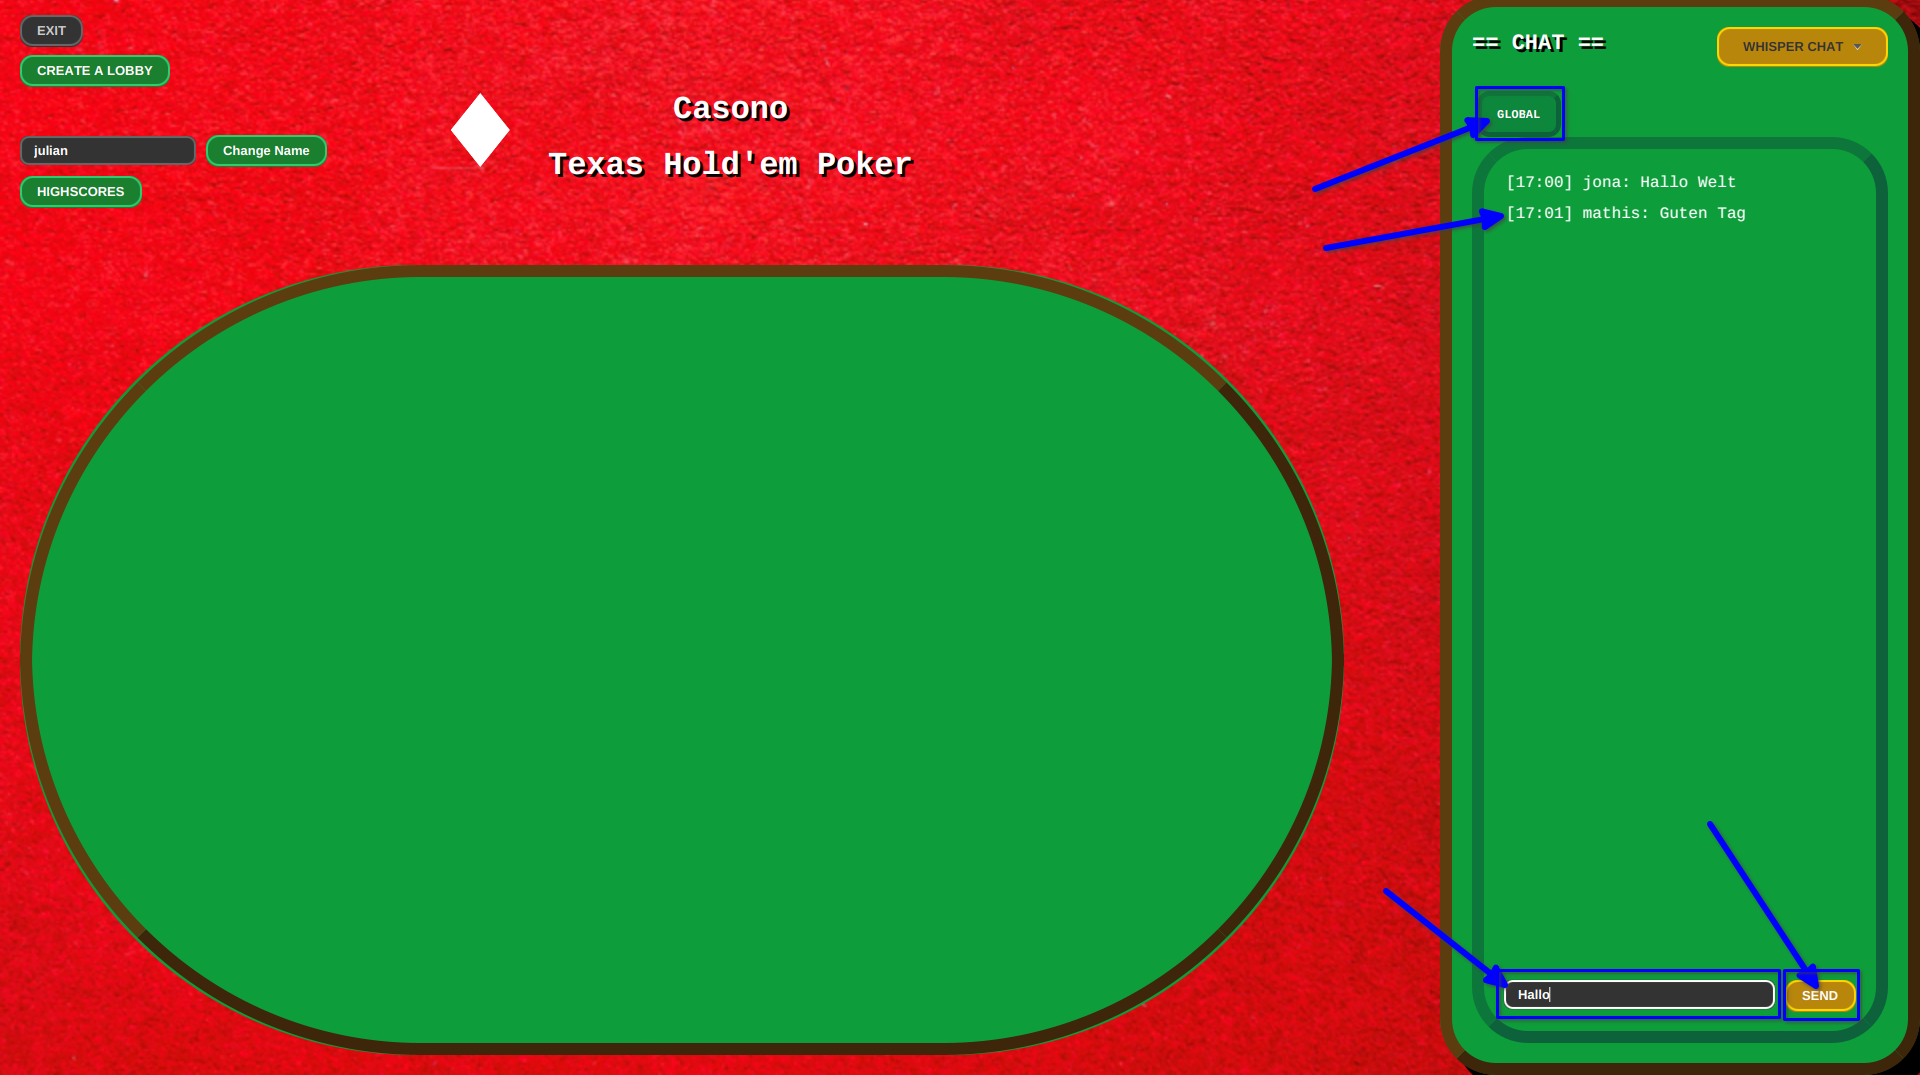
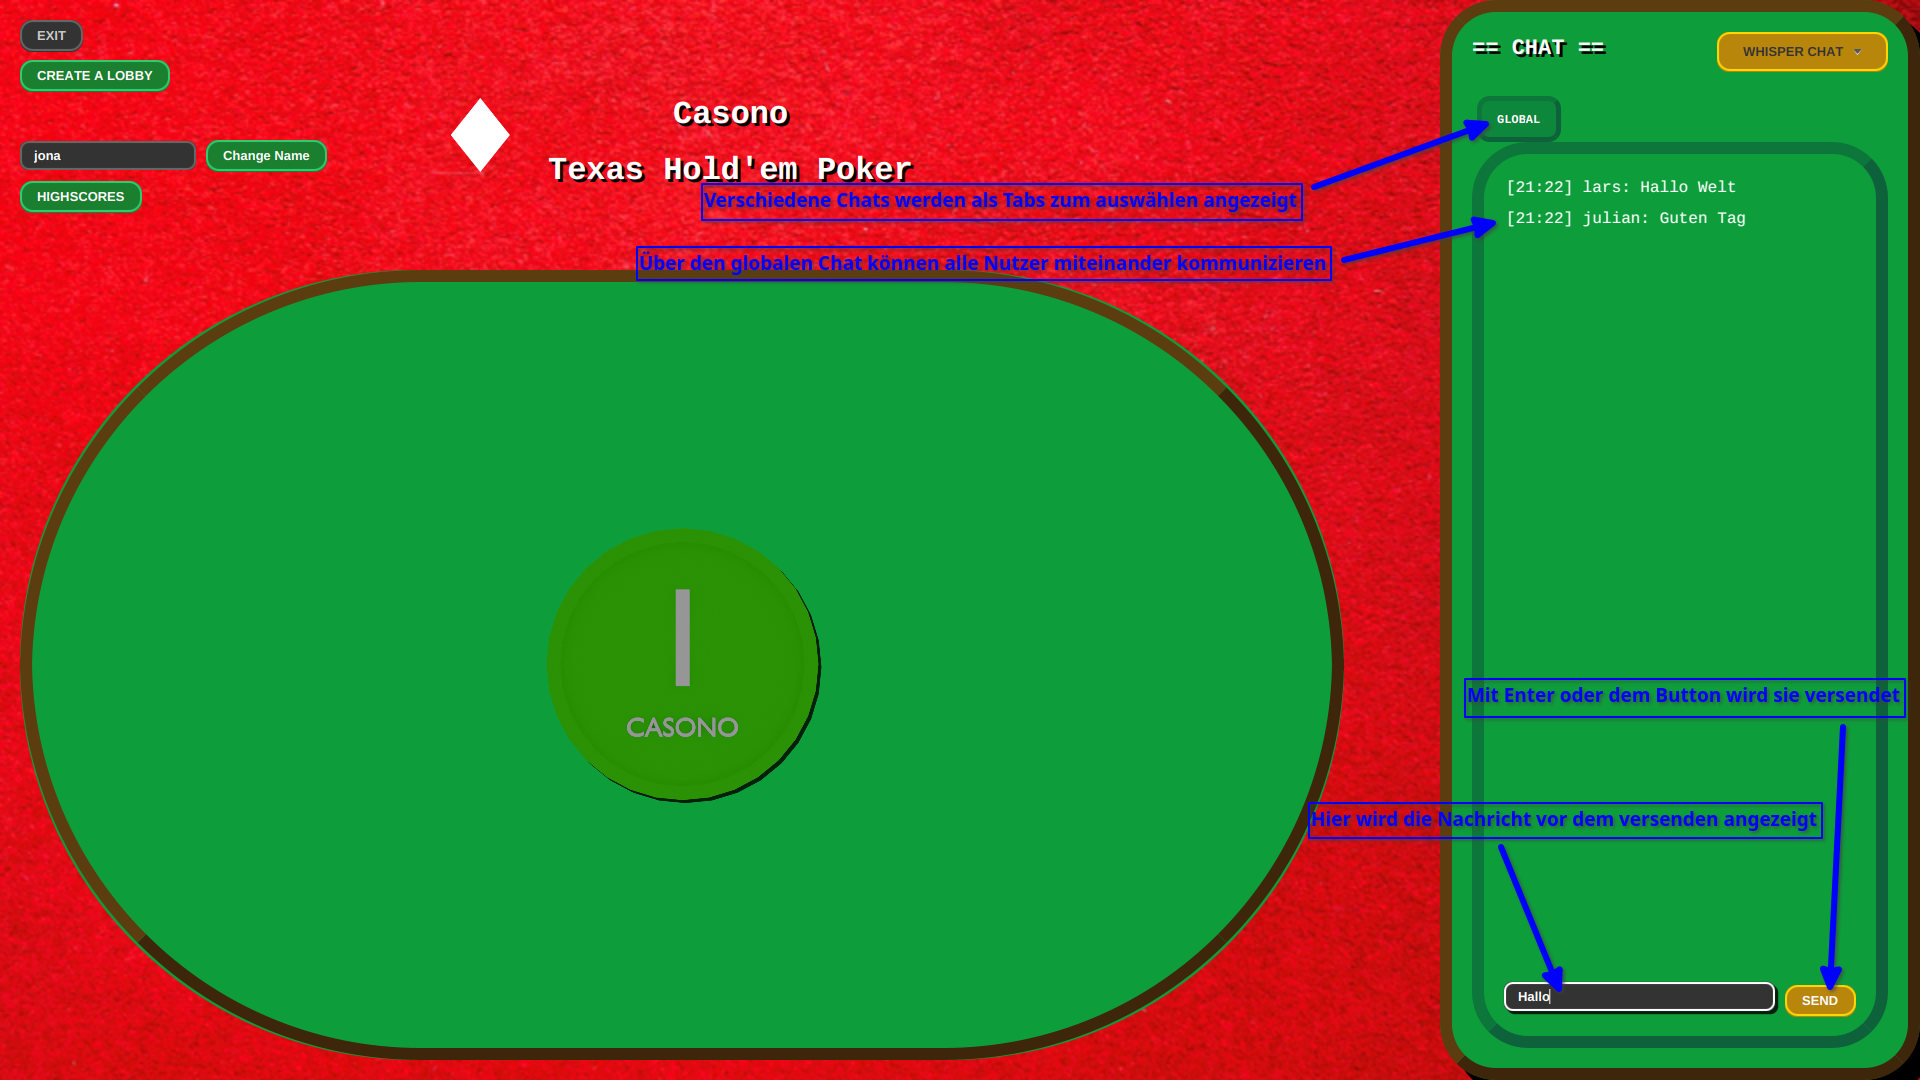
Add: description to change themes of the GameUI and change the description of the ChatUI

diff --git a/documents/docs/game-engine/casono-manual.md b/documents/docs/game-engine/casono-manual.md
@@ -82,7 +82,17 @@
 ![Game UI](./images/game-ui.png)
 
 ![Taskbar](./images/taskbar.png)
+## Themes
 
+![[game_ui_normal_theme.png]]
+
+### Black-and-White Theme
+
+![[game_ui_black_white_theme.png]]
+
+### Glass-Effect Theme
+
+![[game_ui_glass_theme.png]]
 ## Casono Browser
 
 ![[casono-browser.png]]
@@ -101,6 +111,7 @@
 ### Whisper Chat
 
 ![[whisper_chat.png]]
+
 # Casono Rules
 
 ## 1. Spielübersicht
@@ -164,6 +175,7 @@ Jeder Spieler hat folgende Optionen:
 - Drei Karten werden offen auf den Tisch gelegt
 - Eine neue Setzrunde beginnt
 - Die Setzrunde beginnt jetzt immer beim ersten aktiven Spieler links vom Dealer (im Uhrzeigersinn).
+- Der erste Spieler bei der Flop Runde muss keinen höheren Einsatz setzen als der letzte Spieler aus der Preflop Runde, allerdings muss er seinen eigenen Einsatz aus der Preflop Runde überbieten.
 
 Ab diesem Zeitpunkt können alle Spieler ihre Strategie anhand zusätzlicher Informationen anpassen.
 
